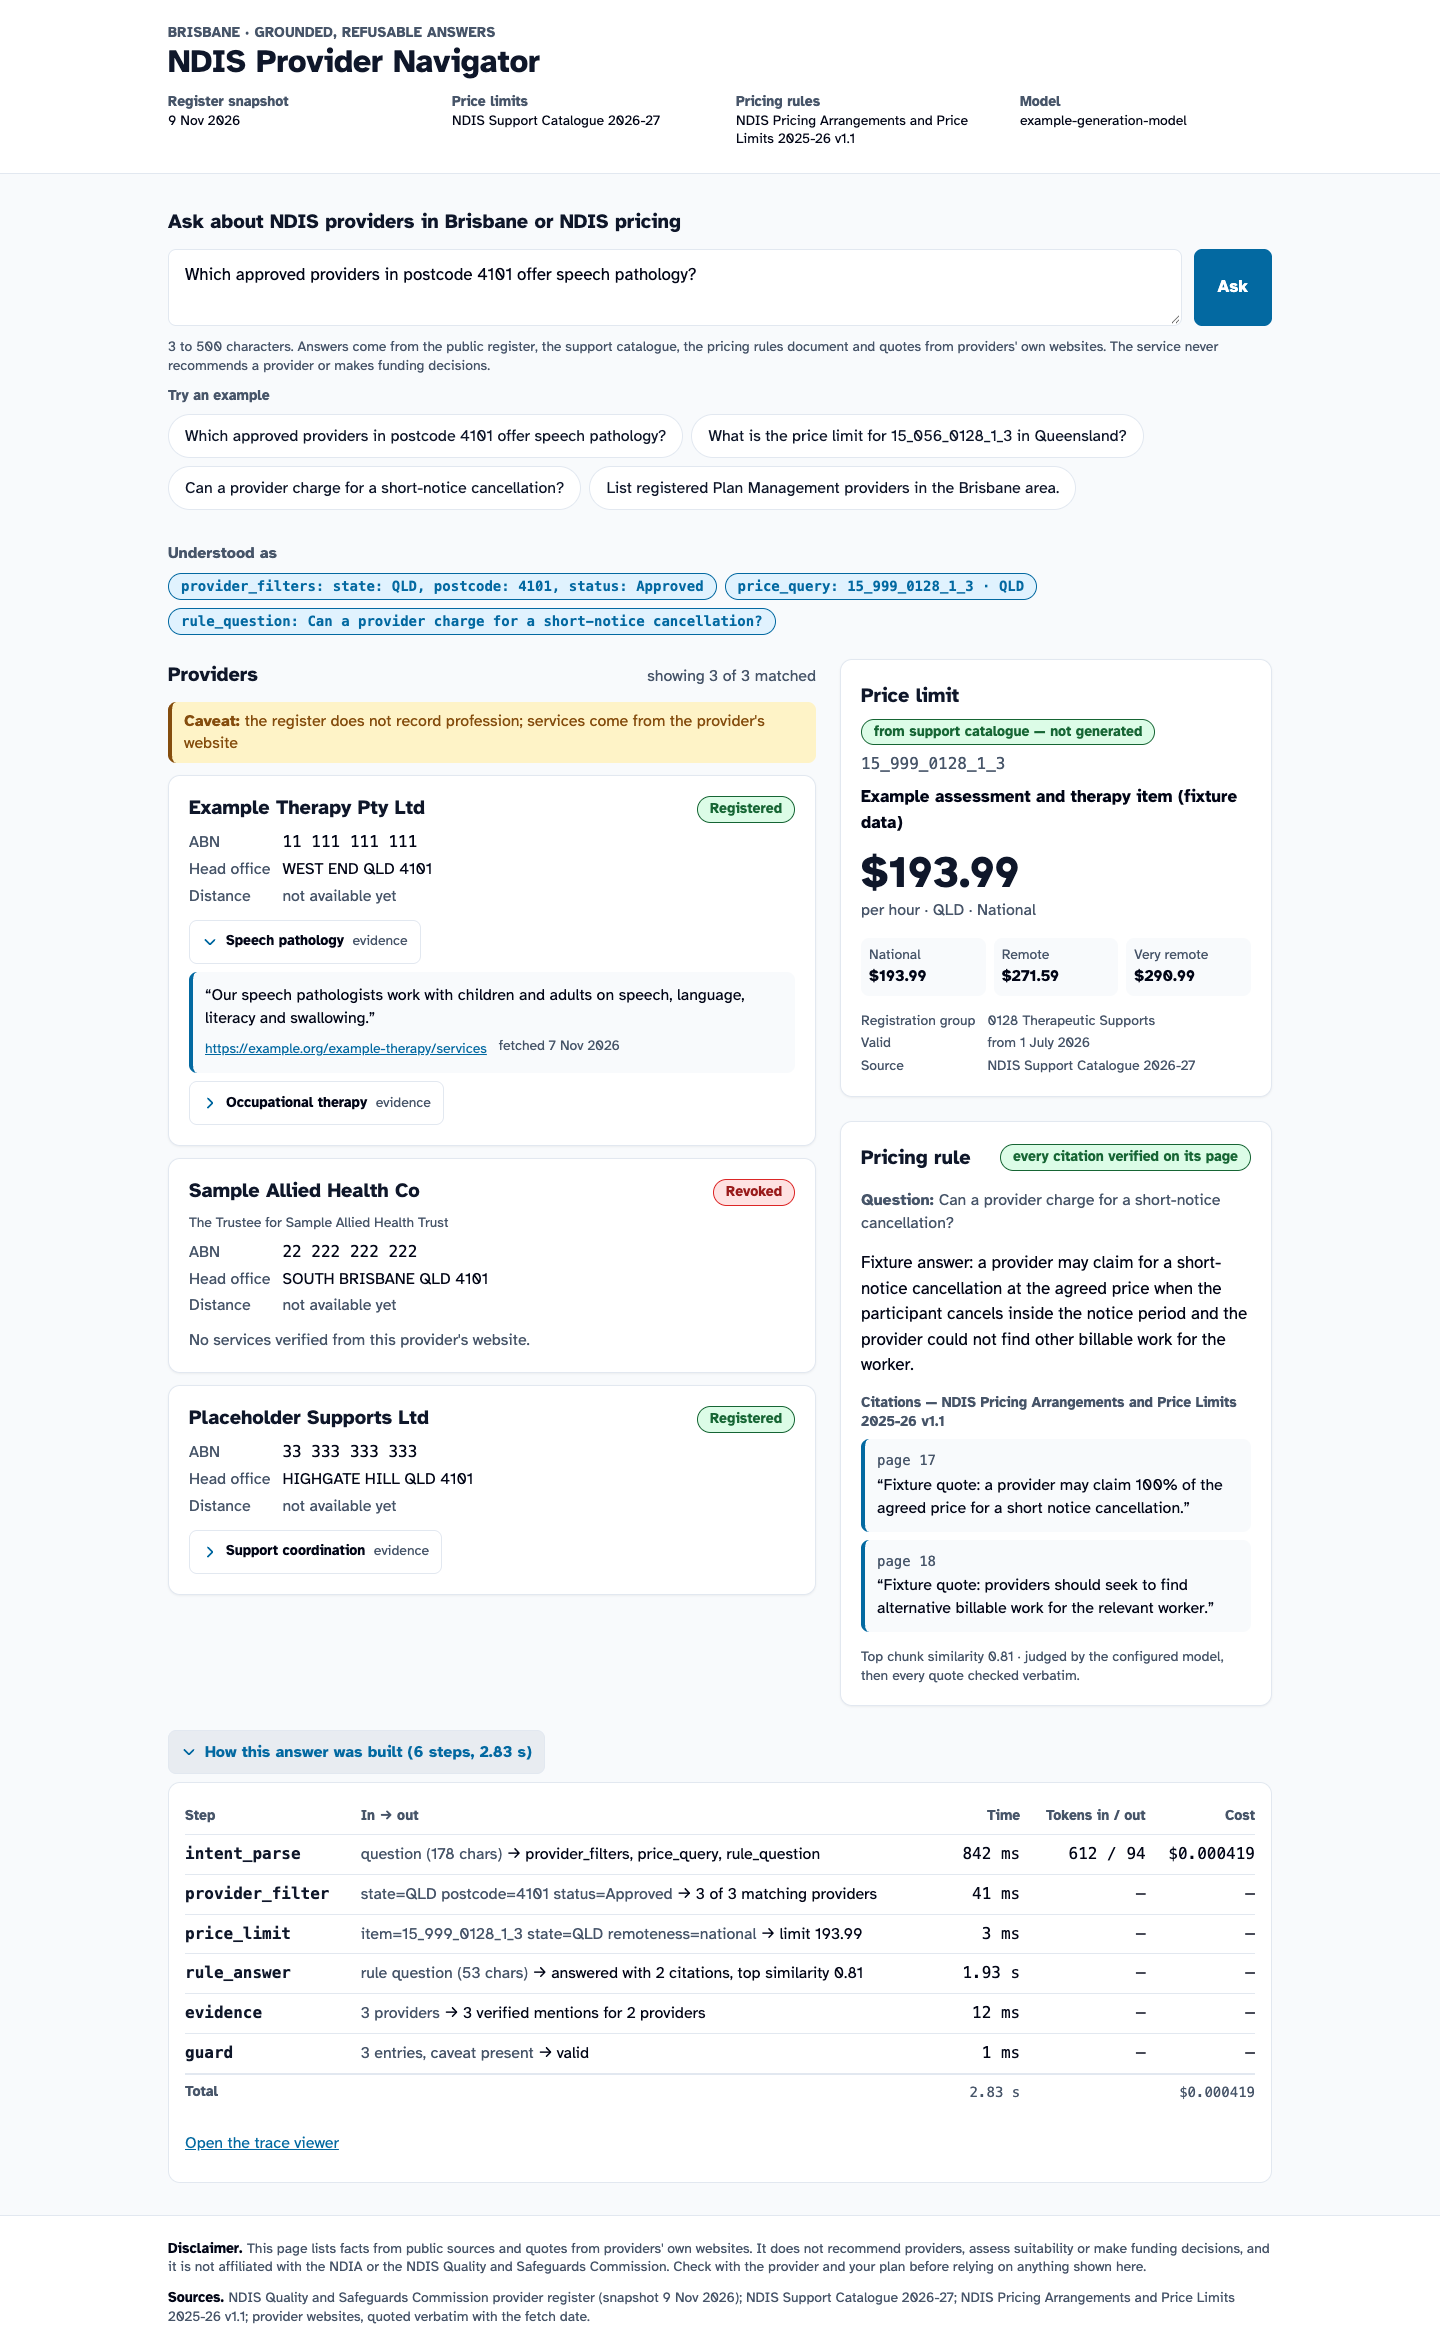
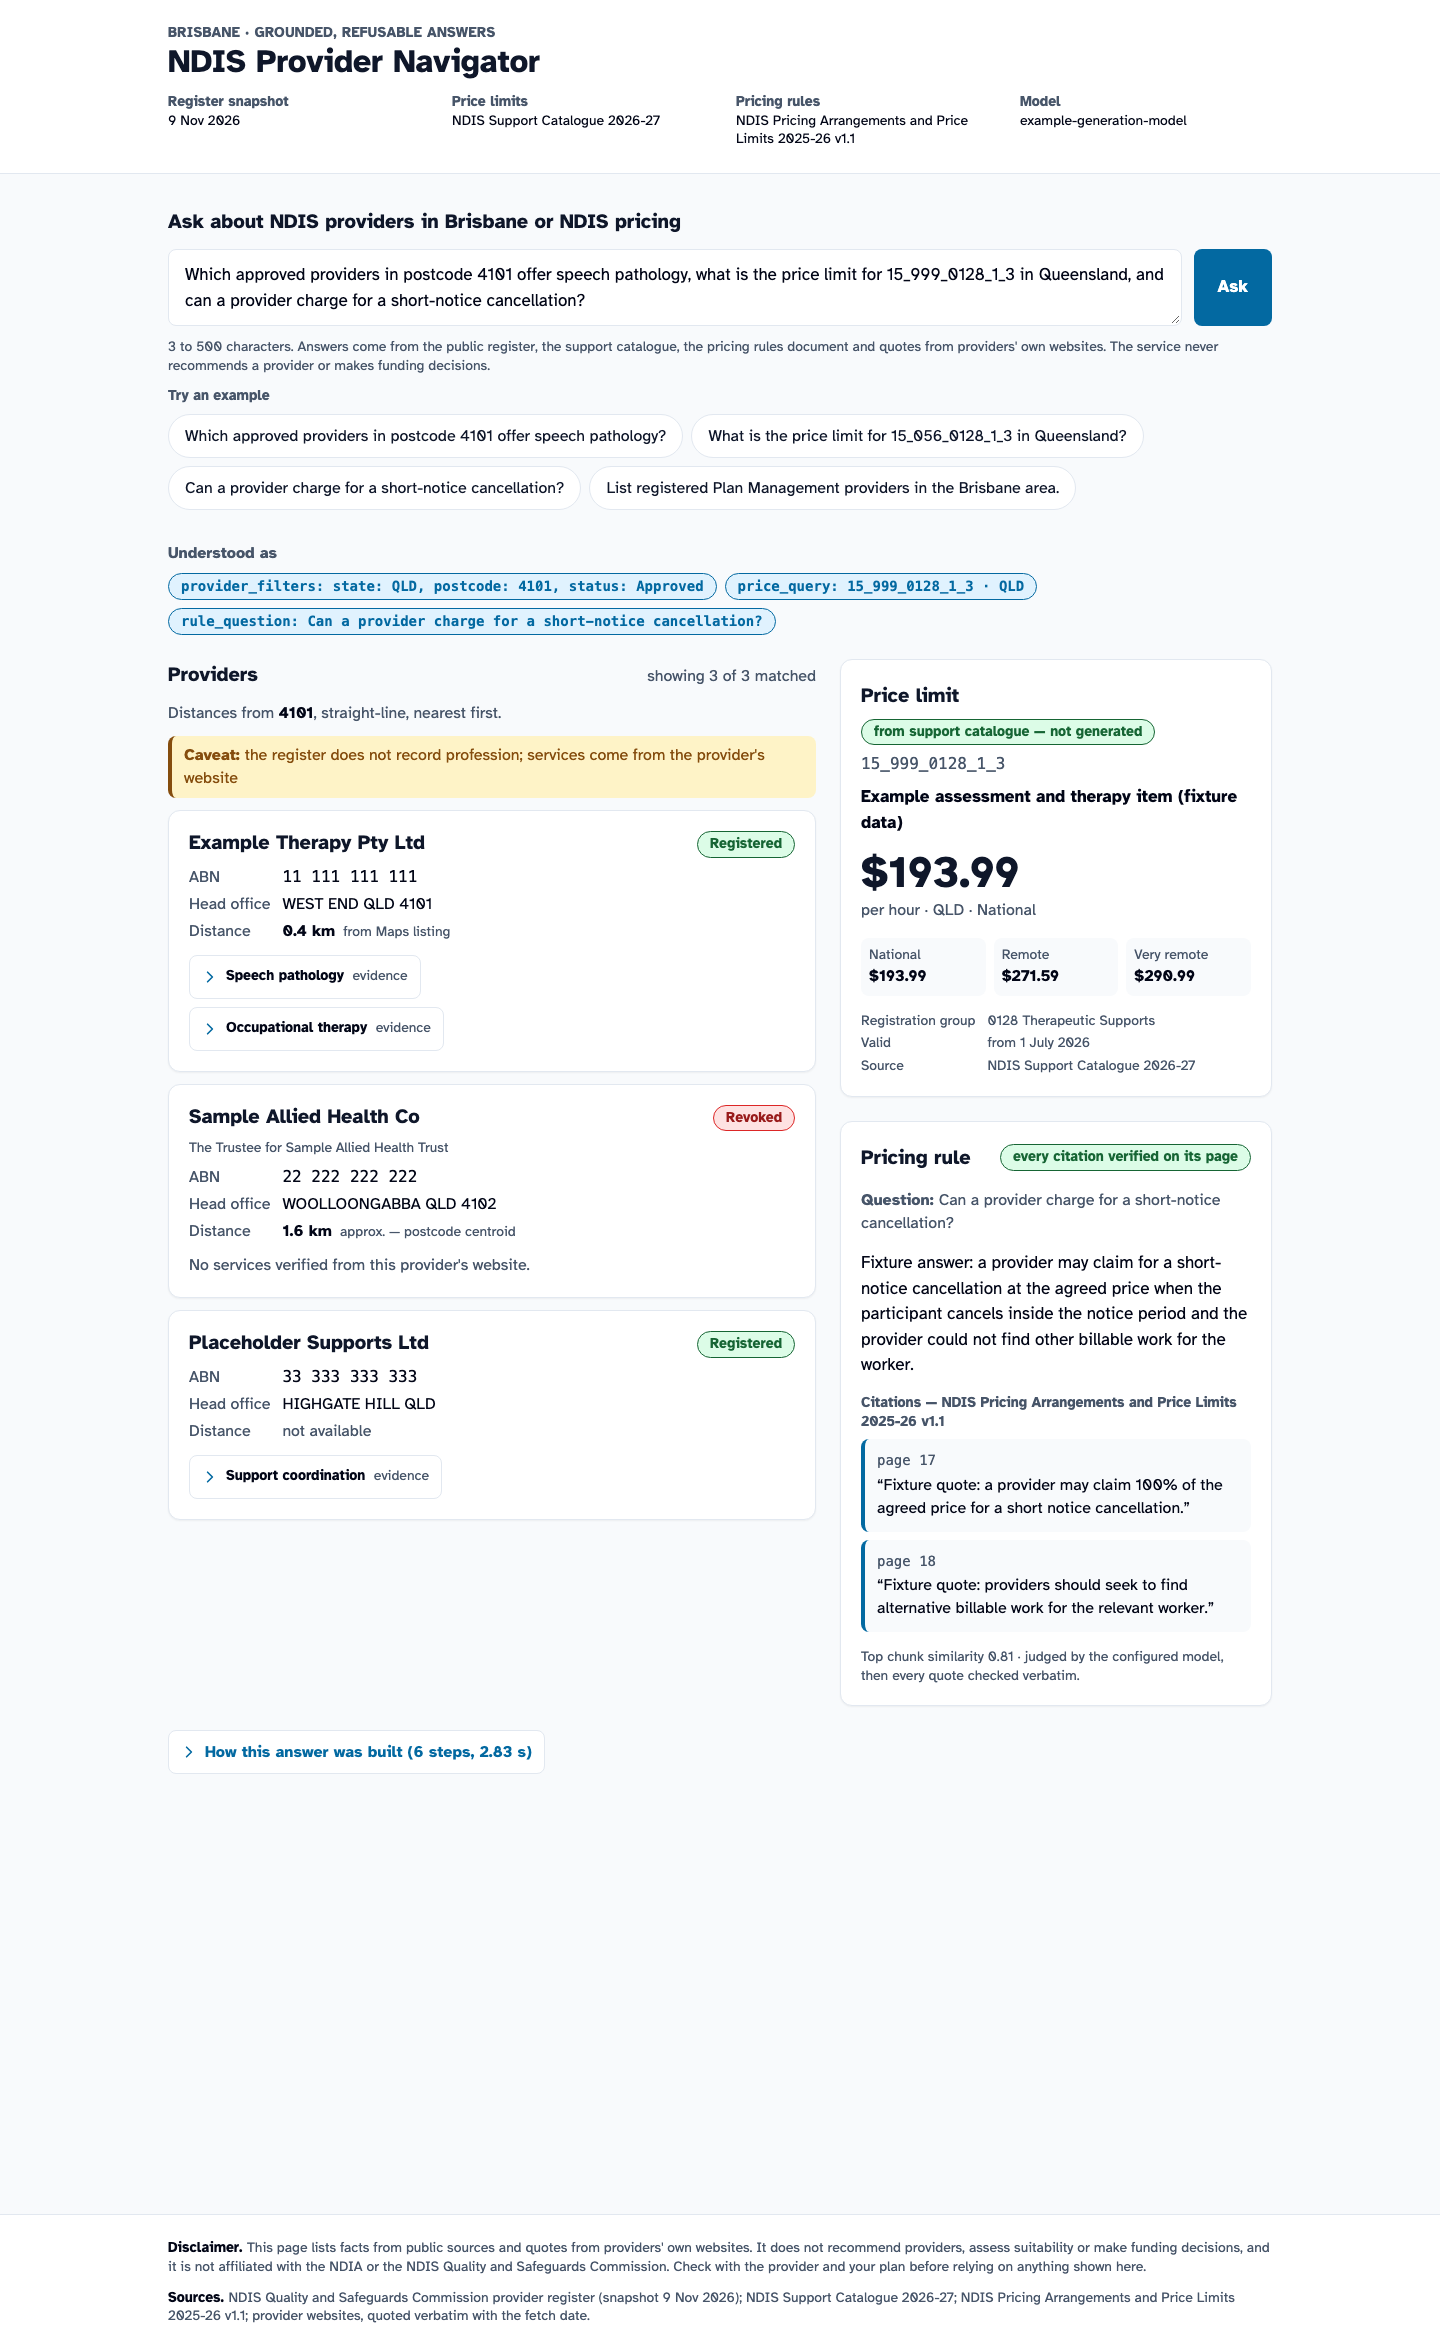
feat(web): show measured distances on provider cards
Each card shows the km value with a muted source label (from Maps listing vs
approx. — postcode centroid) or "not available"; the origin postcode is shown
once above the cards; cards stay in API order. Fixtures carry one exact, one
centroid and one null distance; screenshots re-taken from mock mode.

Amp-Thread-ID: https://ampcode.com/threads/T-01a1c1ed-3268-72f4-9ec4-8f378ba0eb50

diff --git a/web/src/api/fixtures/answer.ts b/web/src/api/fixtures/answer.ts
@@ -1,8 +1,9 @@
 import type { AskOut } from '../client'
 
 /**
- * A full answer: providers with verified services, a price limit and a rule answer.
- * Every provider, ABN, URL, quote and price here is fictitious fixture data.
+ * A full answer: providers ranked by distance from 4101 (one exact, one approximate, one
+ * unmeasured) with verified services, a price limit and a rule answer. Every provider, ABN,
+ * URL, quote, distance and price here is fictitious fixture data.
  */
 export const ANSWER: AskOut = {
   question:
@@ -35,6 +36,7 @@ export const ANSWER: AskOut = {
       registration_expires_on: '2028-03-31',
       registration_groups: ['Therapeutic Supports', 'Early Childhood Supports'],
       brisbane_area: true,
+      distance: { km: 0.4, source: 'exact' },
       services: [
         {
           service: 'Speech pathology',
@@ -56,26 +58,28 @@ export const ANSWER: AskOut = {
       abn: '22222222222',
       business_name: 'Sample Allied Health Co',
       legal_name: 'The Trustee for Sample Allied Health Trust',
-      head_office: { suburb: 'SOUTH BRISBANE', state: 'QLD', postcode: '4101' },
+      head_office: { suburb: 'WOOLLOONGABBA', state: 'QLD', postcode: '4102' },
       website: 'https://example.org/sample-allied-health',
       website_domain: 'example.org',
       registration_status: 'Revoked',
       registration_expires_on: '2026-01-15',
       registration_groups: ['Therapeutic Supports'],
       brisbane_area: true,
+      distance: { km: 1.6, source: 'postcode_centroid' },
       services: [],
     },
     {
       abn: '33333333333',
       business_name: 'Placeholder Supports Ltd',
       legal_name: 'Placeholder Supports Ltd',
-      head_office: { suburb: 'HIGHGATE HILL', state: 'QLD', postcode: '4101' },
+      head_office: { suburb: 'HIGHGATE HILL', state: 'QLD', postcode: null },
       website: null,
       website_domain: null,
       registration_status: 'Approved',
       registration_expires_on: '2027-09-30',
       registration_groups: ['Assistance with Daily Life', 'Support Coordination'],
       brisbane_area: true,
+      distance: null,
       services: [
         {
           service: 'Support coordination',
@@ -87,6 +91,7 @@ export const ANSWER: AskOut = {
     },
   ],
   provider_total: 3,
+  distance_origin: '4101',
   price: {
     item_number: '15_999_0128_1_3',
     name: 'Example assessment and therapy item (fixture data)',
@@ -138,7 +143,8 @@ export const ANSWER: AskOut = {
     {
       kind: 'provider_filter',
       input_summary: 'state=QLD postcode=4101 status=Approved',
-      output_summary: '3 of 3 matching providers',
+      output_summary:
+        '3 of 3 matching providers ranked by distance from 4101: 1 exact, 1 postcode centroid, 1 without distance',
       ms: 41,
       input_tokens: null,
       output_tokens: null,

diff --git a/web/src/components/ProviderCard.tsx b/web/src/components/ProviderCard.tsx
@@ -1,5 +1,12 @@
 import type { AskProviderOut, ServiceMentionOut } from '../api/client'
-import { REGISTRATION_LABEL, formatAbn, formatDate, registrationBadge } from '../format'
+import {
+  DISTANCE_SOURCE_LABEL,
+  REGISTRATION_LABEL,
+  formatAbn,
+  formatDate,
+  formatKm,
+  registrationBadge,
+} from '../format'
 import { Chip, type ChipTone } from './Chip'
 import { Disclosure } from './Disclosure'
 
@@ -13,7 +20,8 @@ interface ProviderCardProps {
   provider: AskProviderOut
 }
 
-/** One register entry with its verified service mentions and their evidence. */
+/** One register entry with its distance from the origin postcode (when the API measured
+ * one, labelled exact or approximate), its verified service mentions and their evidence. */
 export function ProviderCard({ provider }: ProviderCardProps) {
   const badge = registrationBadge(provider.registration_status)
   const office = provider.head_office
@@ -42,7 +50,16 @@ export function ProviderCard({ provider }: ProviderCardProps) {
           <dt className="text-muted-foreground">Head office</dt>
           <dd>{place || 'not recorded'}</dd>
           <dt className="text-muted-foreground">Distance</dt>
-          <dd className="text-muted-foreground">not available yet</dd>
+          {provider.distance ? (
+            <dd className="flex flex-wrap items-baseline gap-x-2">
+              <span className="font-bold text-foreground">{formatKm(provider.distance.km)}</span>
+              <span className="text-xs text-muted-foreground">
+                {DISTANCE_SOURCE_LABEL[provider.distance.source]}
+              </span>
+            </dd>
+          ) : (
+            <dd className="text-muted-foreground">not available</dd>
+          )}
         </dl>
       </header>
       <section aria-label={`Services verified for ${provider.business_name}`}>

diff --git a/web/src/App.test.tsx b/web/src/App.test.tsx
@@ -76,7 +76,27 @@ describe('answer state', () => {
     expect(speech).toHaveAttribute('aria-expanded', 'false')
     expect(screen.queryByText(/our speech pathologists work/i)).not.toBeInTheDocument()
     expect(screen.getByText(/no services verified from this provider/i)).toBeInTheDocument()
-    expect(screen.getAllByText('not available yet')).toHaveLength(3)
+
+    // Distances: the origin once above the cards, one exact, one approximate, one missing,
+    // in the order the API returned them (nearest first; nothing is sorted client-side).
+    expect(screen.getByText(/distances from/i)).toHaveTextContent(
+      'Distances from 4101, straight-line, nearest first.',
+    )
+    const cards = screen.getAllByRole('article', {
+      name: /example therapy|sample allied|placeholder supports/i,
+    })
+    expect(cards.map((card) => within(card).getByRole('heading').textContent)).toEqual([
+      'Example Therapy Pty Ltd',
+      'Sample Allied Health Co',
+      'Placeholder Supports Ltd',
+    ])
+    const [exact, approximate, unmeasured] = cards as [HTMLElement, HTMLElement, HTMLElement]
+    expect(within(exact).getByText('0.4 km')).toBeInTheDocument()
+    expect(within(exact).getByText('from Maps listing')).toBeInTheDocument()
+    expect(within(approximate).getByText('1.6 km')).toBeInTheDocument()
+    expect(within(approximate).getByText('approx. — postcode centroid')).toBeInTheDocument()
+    expect(within(unmeasured).getByText('not available')).toBeInTheDocument()
+    expect(within(unmeasured).queryByText(/km/)).not.toBeInTheDocument()
 
     // Price card
     const price = screen.getByRole('article', { name: 'Price limit' })

diff --git a/web/src/components/ProvidersColumn.tsx b/web/src/components/ProvidersColumn.tsx
@@ -8,7 +8,8 @@ interface ProvidersColumnProps {
   examples: readonly string[]
 }
 
-/** Left column: the caveat line, then the provider cards or the empty state. */
+/** Left column: the caveat line, the distance origin (once, when the API ranked by it), then
+ * the provider cards in the order the API returned them, or the empty state. */
 export function ProvidersColumn({ answer, onPickExample, examples }: ProvidersColumnProps) {
   const filters = answer.intent?.provider_filters ?? null
   if (filters === null) {
@@ -33,6 +34,12 @@ export function ProvidersColumn({ answer, onPickExample, examples }: ProvidersCo
           showing {answer.providers.length} of {answer.provider_total} matched
         </p>
       </div>
+      {answer.distance_origin && answer.providers.length > 0 && (
+        <p className="text-sm text-muted-foreground">
+          Distances from <span className="font-bold text-foreground">{answer.distance_origin}</span>
+          , straight-line, nearest first.
+        </p>
+      )}
       {answer.caveat ? (
         <p className="rounded-md border-l-4 border-warning bg-warning-tint px-3 py-2 text-sm text-warning">
           <span className="font-bold">Caveat: </span>

diff --git a/web/src/format.ts b/web/src/format.ts
@@ -1,4 +1,4 @@
-import type { AskIntentOut } from './api/client'
+import type { AskIntentOut, DistanceOut } from './api/client'
 
 /** `11111111111` → `11 111 111 111`, the way the ABR prints it. */
 export function formatAbn(abn: string): string {
@@ -25,6 +25,22 @@ export function formatDate(iso: string): string {
   return DATE_FORMAT.format(
     new Date(Date.UTC(Number(match[1]), Number(match[2]) - 1, Number(match[3]))),
   )
+}
+
+const KM_FORMAT = new Intl.NumberFormat('en-AU', {
+  minimumFractionDigits: 1,
+  maximumFractionDigits: 1,
+})
+
+/** `3.2` → `3.2 km`; the API already rounds to one decimal. */
+export function formatKm(km: number): string {
+  return `${KM_FORMAT.format(km)} km`
+}
+
+/** The muted label beside a distance: how it was measured. */
+export const DISTANCE_SOURCE_LABEL: Record<DistanceOut['source'], string> = {
+  exact: 'from Maps listing',
+  postcode_centroid: 'approx. — postcode centroid',
 }
 
 const MONEY_FORMAT = new Intl.NumberFormat('en-AU', {

diff --git a/web/src/api/client.ts b/web/src/api/client.ts
@@ -10,6 +10,7 @@ import type { components, paths } from './schema'
 
 export type AskOut = components['schemas']['AskOut']
 export type AskProviderOut = components['schemas']['AskProviderOut']
+export type DistanceOut = components['schemas']['DistanceOut']
 export type AskIntentOut = components['schemas']['AskIntentOut']
 export type ServiceMentionOut = components['schemas']['ServiceMentionOut']
 export type PriceLimitOut = components['schemas']['PriceLimitOut']

diff --git a/web/src/api/fixtures/refusal.ts b/web/src/api/fixtures/refusal.ts
@@ -16,6 +16,7 @@ export const REFUSAL: AskOut = {
   },
   providers: [],
   provider_total: 0,
+  distance_origin: null,
   price: null,
   price_error: null,
   rule: null,

diff --git a/web/src/api/fixtures/empty.ts b/web/src/api/fixtures/empty.ts
@@ -21,6 +21,7 @@ export const EMPTY: AskOut = {
   },
   providers: [],
   provider_total: 0,
+  distance_origin: null,
   price: null,
   price_error: null,
   rule: null,
